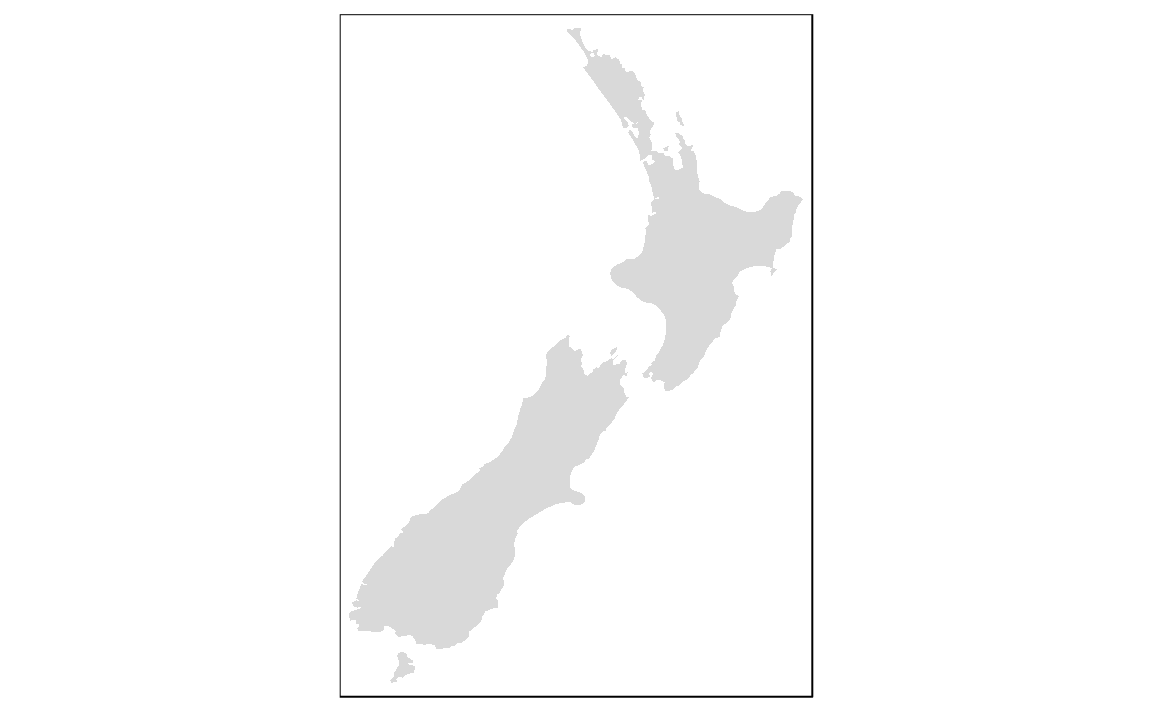
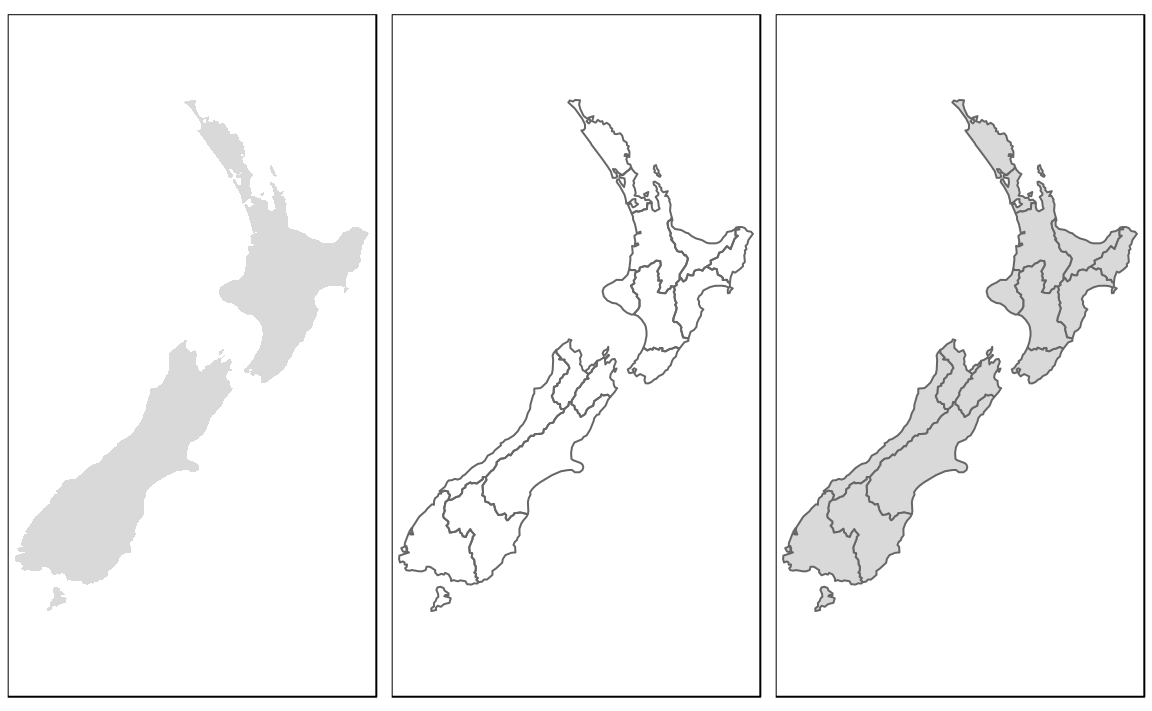
Updating book (2698)
Former-commit-id: 903550c1f00c385b48bf66ddc7b0a2c2bd3438e6
Former-commit-id: 5506872a374d33d5de25375847d8c5660bb7c4a7

Changed region(s): [[0.0, 0.0309, 1.0, 0.9902], [0.0, 0.9592, 0.2812, 0.9902]]

diff --git a/adv-map.html b/adv-map.html
@@ -374,13 +374,14 @@ code > span.in { color: #60a0b0; font-weight: bold; font-style: italic; } /* Inf
 <p><strong>tmap</strong> generates maps with sensible defaults for a wide range of spatial objects with <code>tm_shape()</code> (which accepts raster and vector objects), followed by one or more layer elements such as <code>tm_fill()</code> and <code>tm_border()</code>. These functions are used singularly and in combination in the code chunk below, which generates Figure <a href="adv-map.html#fig:tmshape">9.1</a>:</p>
 <div class="sourceCode"><pre class="sourceCode r"><code class="sourceCode r"><span class="kw">library</span>(tmap)
 <span class="co"># Add fill layer to nz shape</span>
-<span class="kw">tm_shape</span>(nz) +<span class="st"> </span><span class="kw">tm_fill</span>()
+m1 =<span class="st"> </span><span class="kw">tm_shape</span>(nz) +<span class="st"> </span><span class="kw">tm_fill</span>() 
 <span class="co"># Add border layer to nz shape</span>
-<span class="kw">tm_shape</span>(nz) +<span class="st"> </span><span class="kw">tm_borders</span>()
+m2 =<span class="st"> </span><span class="kw">tm_shape</span>(nz) +<span class="st"> </span><span class="kw">tm_borders</span>() 
 <span class="co"># Add fill and border layers to nz shape</span>
-<span class="kw">tm_shape</span>(nz) +<span class="st"> </span><span class="kw">tm_fill</span>() +<span class="st"> </span><span class="kw">tm_borders</span>()</code></pre></div>
+m3 =<span class="st"> </span><span class="kw">tm_shape</span>(nz) +<span class="st"> </span><span class="kw">tm_fill</span>() +<span class="st"> </span><span class="kw">tm_borders</span>() 
+<span class="kw">tmap_arrange</span>(m1, m2, m3, <span class="dt">nrow =</span> <span class="dv">1</span>)</code></pre></div>
 <div class="figure" style="text-align: center"><span id="fig:tmshape"></span>
-<img src="figures/tmshape-1.png" alt="New Zealand's shape plotted with fill (left), border (middle) and fill *and* border (right) layers added using **tmap** functions." width="30%" /><img src="figures/tmshape-2.png" alt="New Zealand's shape plotted with fill (left), border (middle) and fill *and* border (right) layers added using **tmap** functions." width="30%" /><img src="figures/tmshape-3.png" alt="New Zealand's shape plotted with fill (left), border (middle) and fill *and* border (right) layers added using **tmap** functions." width="30%" />
+<img src="figures/tmshape-1.png" alt="New Zealand's shape plotted with fill (left), border (middle) and fill *and* border (right) layers added using **tmap** functions." width="576" />
 <p class="caption">
 Figure 9.1: New Zealand’s shape plotted with fill (left), border (middle) and fill <em>and</em> border (right) layers added using <strong>tmap</strong> functions.
 </p>
